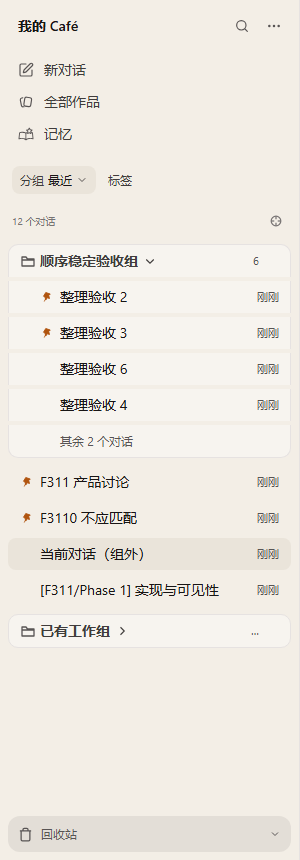
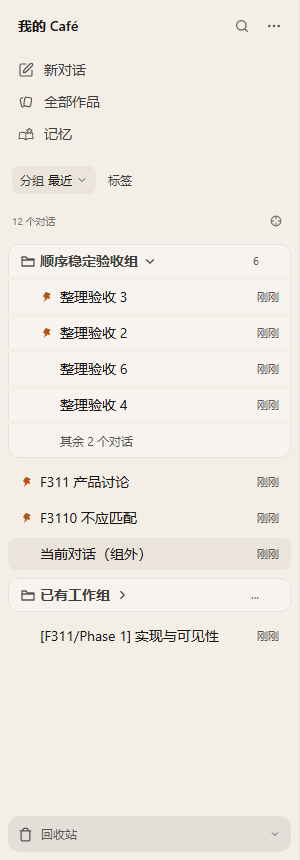
test(sidebar): validate collapsed projects and favorite pinning
Why: Exercise the actual view menu and row gesture, and persist synthetic pin changes so the browser verifies live markers without bypassing the production Sidebar. Refresh public evidence without internal instance coordinates.

[砚砚/GPT-6.1-Sol · xhigh🐾]

diff --git a/docs/plans/2026-11-12-issue1964-arrange-order.md b/docs/plans/2026-11-12-issue1964-arrange-order.md
@@ -25,6 +25,18 @@
 target-owned 归属；公开 checkout 未包含实际 source manifest，这个核验边界在 PR 明示。
 F277 恢复上游原文，源侧设计修订随既有导出链进入；本 PR 不再产生单独的公开 F277 差异。
 
+本轮合流后验收：11 个 Vitest 文件 97 项通过，API 构建、Web 类型与变更文件 Biome 检查通过。
+canonical Chromium 旅程 1/1 通过（五种视口/视图组合及新增项目展开、收藏置顶路径，页面错误为零）。
+已查看[展开收起项目](assets/issue1964/300-project-expand-during-arrange.png)和
+[收藏置顶](assets/issue1964/300-favorites-pin-during-arrange.png)截图，并核对 240px 中英文提示不遮挡邻行。
+新增浏览器手势最初落在图钉按钮，已改为从行主体操作；两次早期手动排序请求超时未定位稳定原因，
+后续诊断与无诊断完整旅程均通过，未据此增加产品计时器逻辑。保留此限制供独立复核。
+
+fallback 扫描触发人工检查：统计包含视图布尔条件和可选偏好的缺省值，并非串联的补救路径。
+本次用独立 ID 布局表达整理生命周期；空布局、未设置成员模式与归档容器分别沿既有语义处理，
+没有新增服务端 fallback、重试或额外存储。全局 feature-truth 的 F276/F310 ROADMAP 缺项为既有基线，
+不记作通过；未运行全仓 gate、默认 AppShell、安装版或 200% 缩放验收。
+
 以下为前两轮的历史记录，不替代维护者本轮验收。
 
 需求与验收真相源：[维护者定稿](https://github.com/zts212653/clowder-ai/issues/1964#issuecomment-6806861869)。
